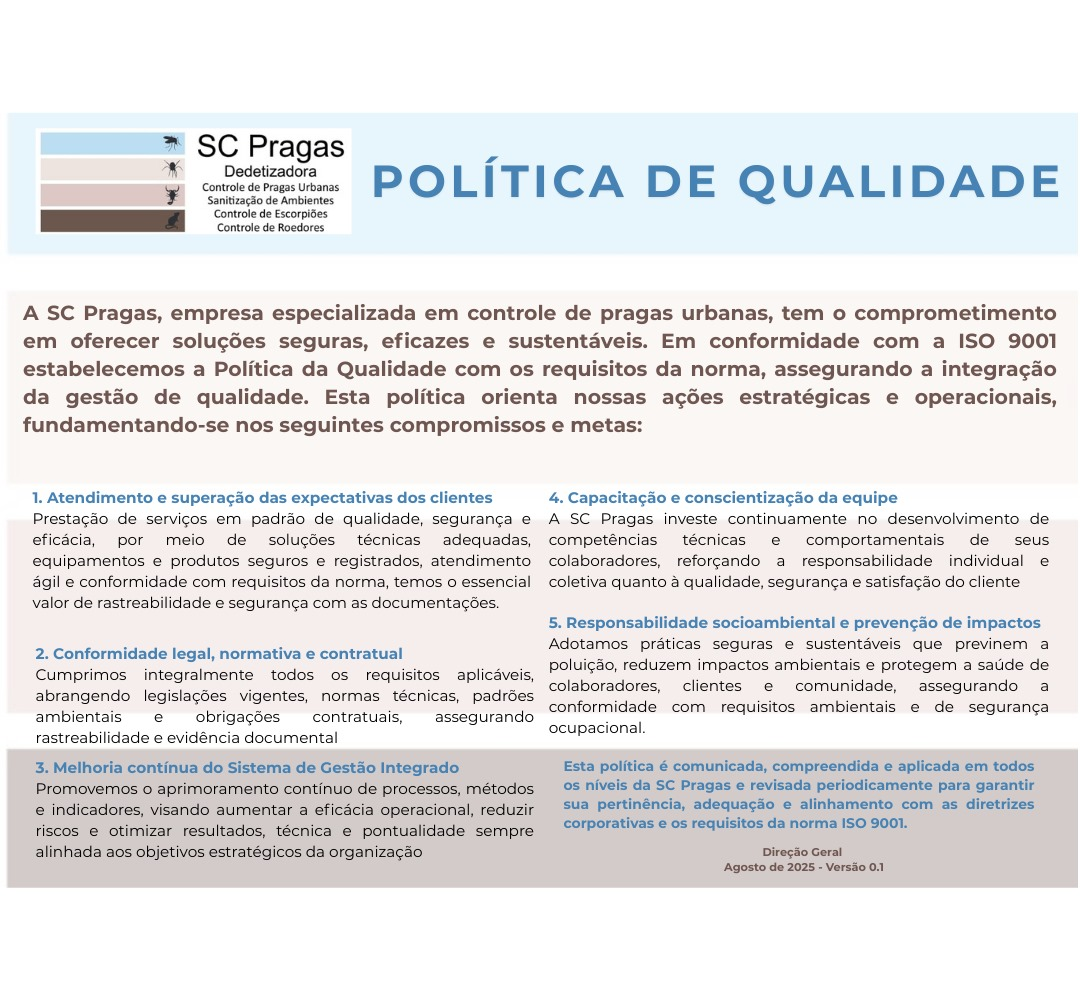
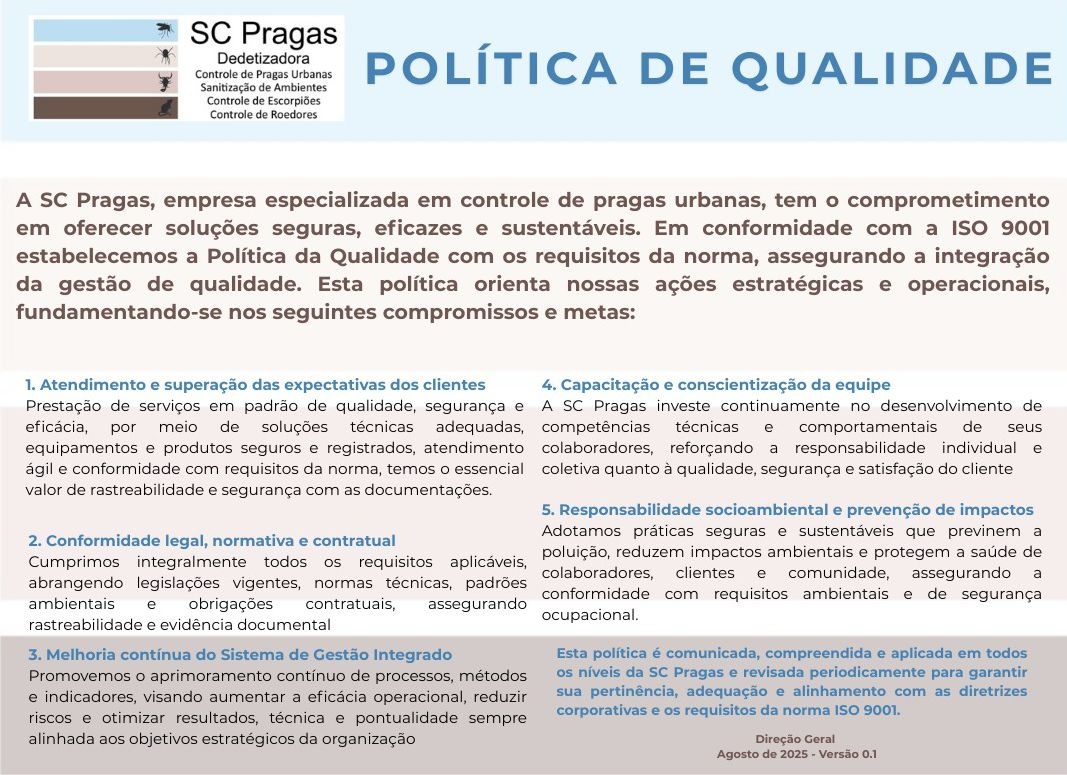
Ajusta espaçamento e tamanho da img da pagina politica de qualidade

diff --git a/politica-de-qualidade.html b/politica-de-qualidade.html
@@ -65,10 +65,10 @@
   <main class="main">
   <section class="starter-section section">
     <picture>
-  <source srcset="assets/img/politica-de-qualidade-tela-menor.png" media="(max-width: 450px)">
-  <img src="assets/img/politica.jpeg" alt="" class="img-centralizada">
-</picture>
-    <h4 class="text-center"><strong>Fale com a SC Pragas</strong></h4>
+      <source srcset="assets/img/politica-de-qualidade-tela-menor.png" media="(max-width: 450px)">
+      <img src="assets/img/politica.jpeg" alt="" class="img-centralizada">
+    </picture>
+    <h4 class="text-center mt-5"><strong>Fale com a SC Pragas</strong></h4>
         <div class="d-flex justify-content-center flex-wrap gap-3 mt-4">
           <a href="https://api.whatsapp.com/send?phone=5519999940755&text=Olá,%20gostaria%20de%20realizar%20um%20orçamento."
             target="_blank" class="btn-contato btn-whatsapp">
